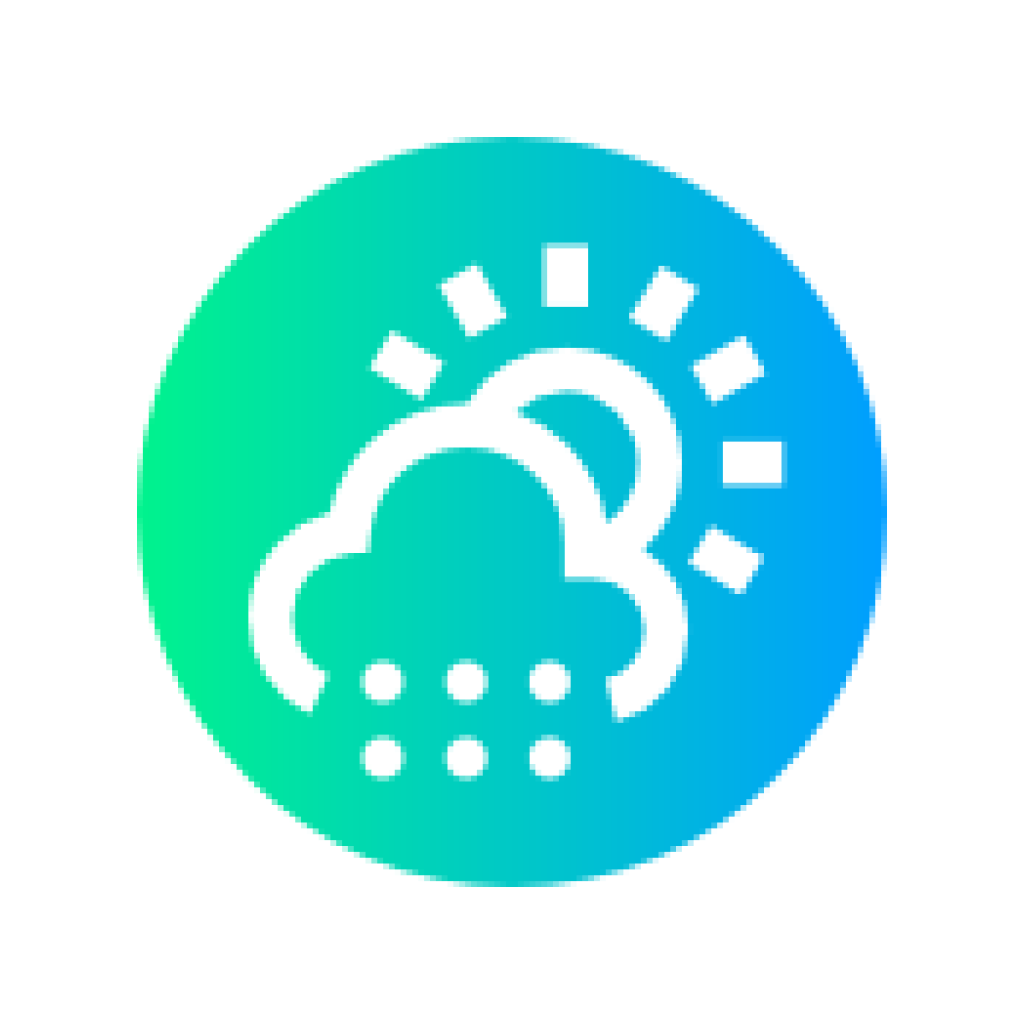
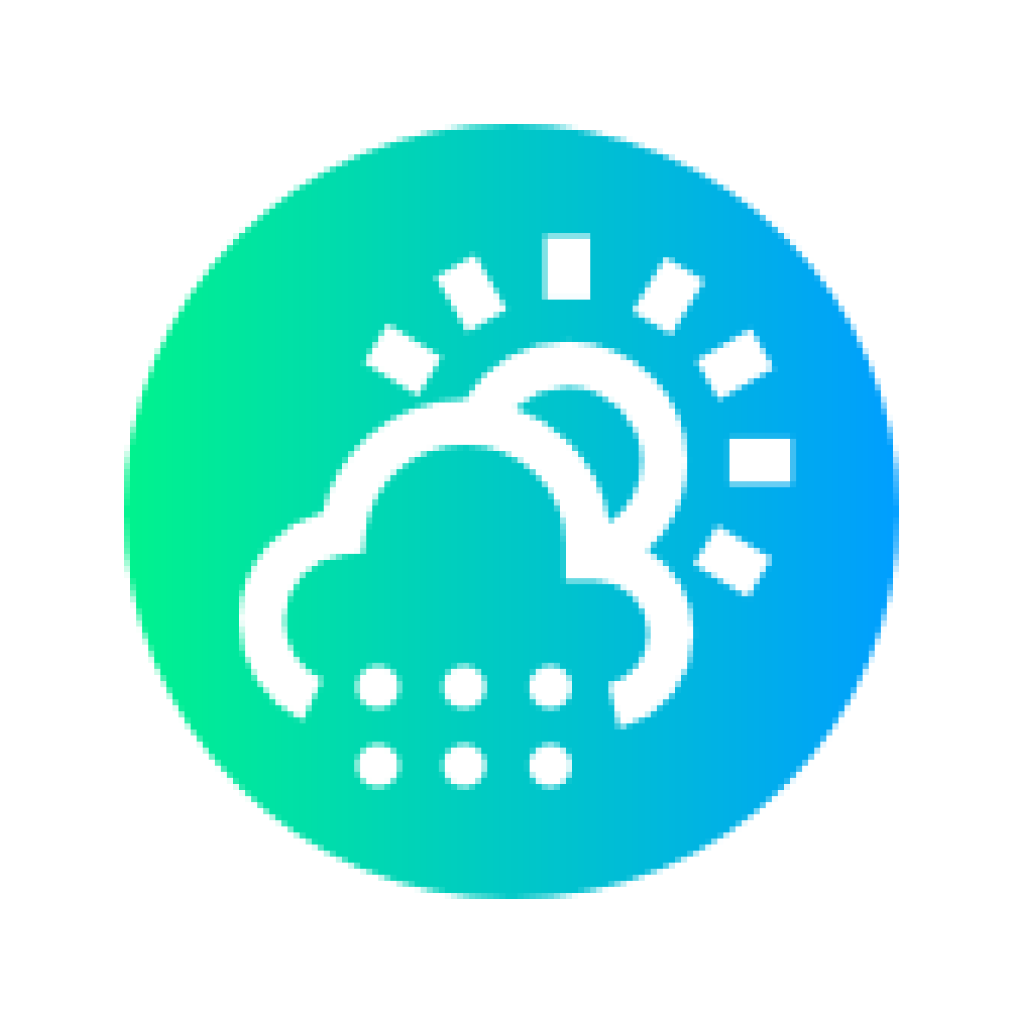
Optimized Assets

diff --git a/assets/images/index.js b/assets/images/index.js
@@ -1,8 +1,8 @@
-const sunny = require("./sunnybg.jpg");
-const snow = require("./snowbg.jpg");
-const hazy = require("./hazybg.jpg");
-const rainy = require("./rainybg.jpg");
-const cloudy = require("./cloudybg.jpg");
-const thunderstrom = require("./thunderstrom.jpg");
+const sunny = require("./sunnybg-min.jpg");
+const snow = require("./snowbg-min.jpg");
+const hazy = require("./hazybg-min.jpg");
+const rainy = require("./rainybg-min.jpg");
+const cloudy = require("./cloudybg-min.jpg");
+const thunderstrom = require("./thunderstrom-min.jpg");
 
 export { sunny, snow, hazy, rainy, cloudy, thunderstrom };
